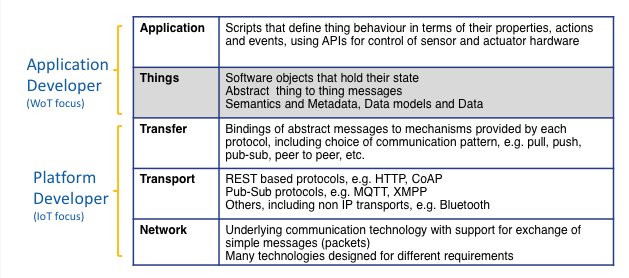
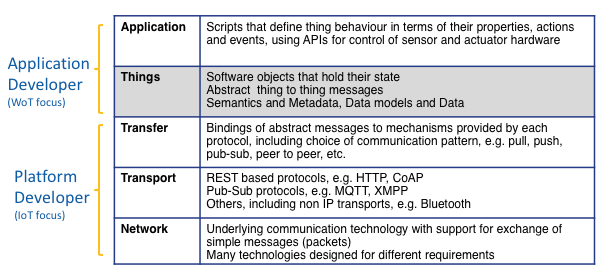
minor tweaks
to the diagrams and associated text

Changed region(s): [[0.0, 0.0289, 0.9967, 0.9819]]

diff --git a/wot-wg-2016.html b/wot-wg-2016.html
@@ -149,9 +149,9 @@
 
 <p><img style="margin-left:20%;width:60%" alt="diagram showing two servers, one acting as a proxy for the other" src="wot-proxies.png" /></p>
 
-<p>The diagram shows a thing on server A that acts as a proxy for a thing on server B which is coupled to a sensor and actuator. The proxy on server A could be set up by a script on that server, or by a script on server B. The latter is useful when server A is on the public Internet and server B is behind a firewall, and you want to provide public access to the thing from server A. Web page scripts can create local proxies for things on servers, subject to the protocols supported by Web browsers and the single origin security policy.</p>
+<p>The diagram above shows a thing on server A that acts as a proxy for a thing on server B which is coupled to a sensor and actuator. The proxy on server A could be set up by a script on that server, or by a script on server B. The latter is useful when server A is on the public Internet and server B is behind a firewall, and you want to provide public access to the thing from server A. Web page scripts can create local proxies for things on servers, subject to the protocols supported by Web browsers and the single origin security policy. The following diagram shows how the abstraction layer for "things" fits into the communications stack.</p>
 
-<p><img style="margin-left:20%;width:60%" alt="diagram showing layers in the web of things communication stack" src="wot-comms-stack.png" /></p>
+<p><img style="margin-left:5%;width:80%" alt="diagram showing layers in the web of things communication stack" src="wot-comms-stack.png" /></p>
 
 <p>This Working Group will define Web technology standards to enable services that span IoT platforms on devices ranging from microcontrollers to cloud-based server farms, with a view to countering fragmentation, and enabling a global market of services and associated software tools. This is expected to drive down the costs and risks involved in developing services, and help realise the full potential for the IoT. In short, we seek to extend the Web from a Web of pages to a Web of things.</p>
 
